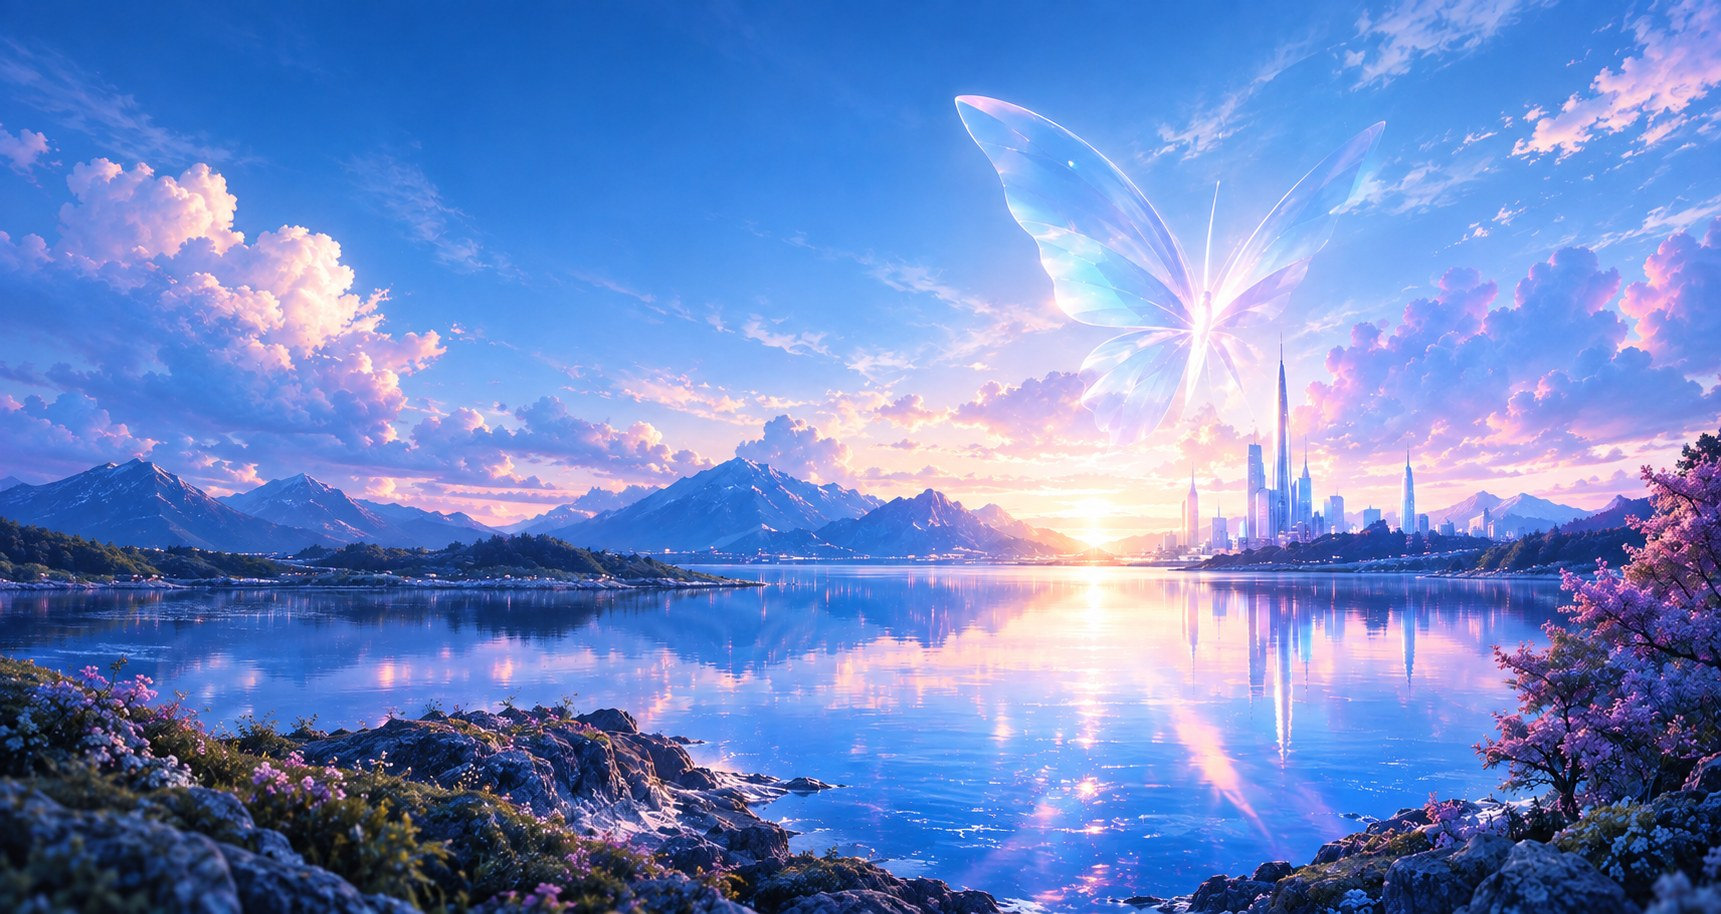
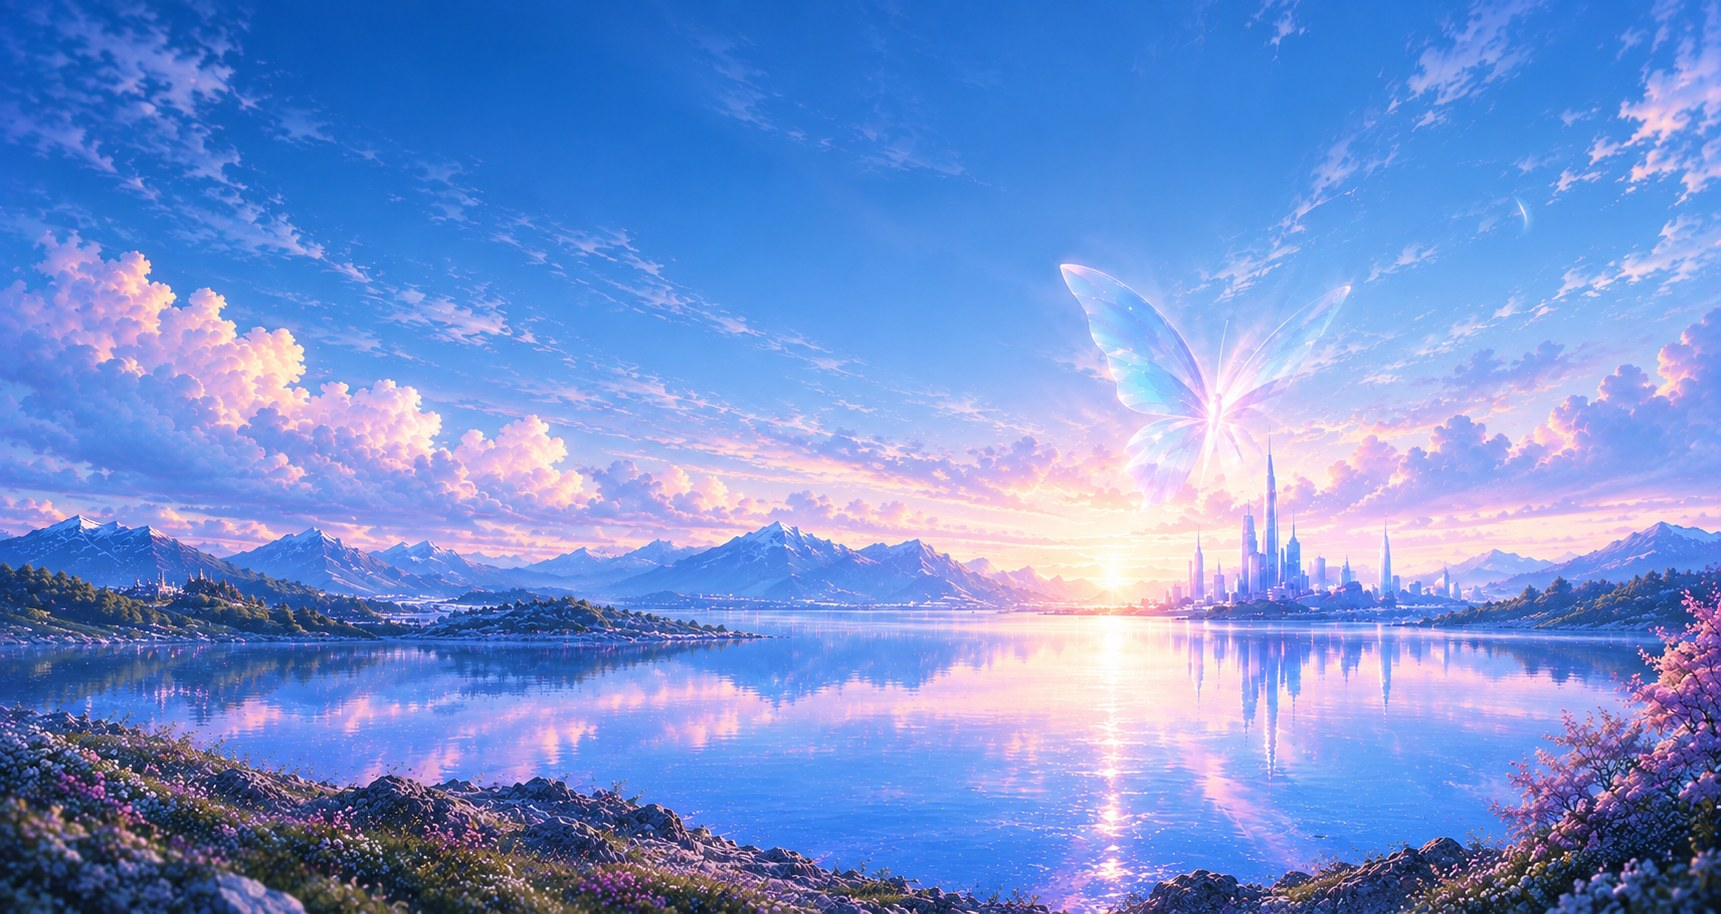
feat: 壁纸换新原片（用户 10-01 16:35 生成图）满屏 cover；移除内容缩小方案（此图不适用）
- ageha-dreamland.jpg?v=4（仅转码 350KB）+ 时钟缩略图从新原片净裁 ?v=4
- PhotoSurface 回归满屏 cover 单层（居中等比），修订 5 的内容缩小/
  边缘补足/mask 随新片移除，--ag-wallpaper-content-scale Token 退役
- 832 前端 + 80 后端 + E2E 16/16 全绿

diff --git a/src/desktop/wallpaper/WallpaperLayer.tsx b/src/desktop/wallpaper/WallpaperLayer.tsx
@@ -8,7 +8,7 @@ import { cssGradient, drawPlan } from './render'
 /**
  * 壁纸层（设计文档 §4.5 + §32 参考图对齐）：**照片基底常驻**（出厂默认
  * 壁纸 = 用户提供的无 UI 原版画作，全构图仅转码，public/wallpapers/，
- * 顶部锚定保证蝴蝶/天空在宽屏不被裁），生成式
+ * 满屏 cover 居中），生成式
  * field 计划在启用动态桌面时以 canvas 层交叉淡入覆盖其上——关闭动态桌面
  * （§32 新出厂默认）即回落照片。品牌字标由 DOM 品牌层承载（§31 R2-2 恢复）。
  * 场层过渡规则不变：新壁纸在上层 0→1 交叉淡入；
@@ -24,7 +24,7 @@ const MOUNT_DELAY_MS = 20
 
 /** 出厂照片壁纸（§32 修订）：用户提供的无 UI 原版画作（仅转码，全构图），
  *  路径公开稳定。URL 带版本号：内容更新替换同名文件时防浏览器陈旧缓存。 */
-export const DEFAULT_WALLPAPER_SRC = '/wallpapers/ageha-dreamland.jpg?v=3'
+export const DEFAULT_WALLPAPER_SRC = '/wallpapers/ageha-dreamland.jpg?v=4'
 
 function prefersReducedMotion(): boolean {
   try {
@@ -98,45 +98,20 @@ export function WallpaperLayer() {
 }
 
 /**
- * 照片基底（§32 修订 5）：**满屏壁纸 + 画面内容等比缩小**（用户裁决：
- * 解决「过大/过近」但壁纸必须始终满屏，不得退化为居中浮层/留白边框）。
- * 双层结构：
- * - 衬底层（wallpaper-surface-ambient）：同素材 cover 满屏 + 大半径模糊
- *   压暗轻微放大——负责屏幕边缘区域的自然衔接补足（模糊仅用于边缘）。
- * - 内容层（wallpaper-surface-photo）：同素材等比缩至
- *   --ag-wallpaper-content-scale（默认 85%，可 5% 步长 80-85 微调），
- *   居中、保持原始宽高比、全清晰（无模糊无圆角无边框），四周以双向
- *   线性渐变软 mask 渐进融入衬底——整体观感仍是一张满屏壁纸。
- * 指针视差已移除（壁纸静止，动效缩放上限同步消解）。
+ * 照片基底（§32 修订 6）：**满屏 cover 单层**——壁纸 = 用户提供的无 UI
+ * 原版画作（public/wallpapers/，仅转码），铺满全视口（等比 cover，
+ * 居中），静止无动效。修订 5 的「内容等比缩小 + 边缘模糊补足」方案随
+ * 新原片（用户裁决：此图不适用缩小方案）移除。
+ * 图片加载失败时静默透出画布渐变。
  */
 function PhotoSurface() {
-  const contentMask =
-    'linear-gradient(90deg, transparent 4%, #000 16%, #000 84%, transparent 96%), ' +
-    'linear-gradient(180deg, transparent 6%, #000 20%, #000 80%, transparent 94%)'
   return (
-    <>
-      <div
-        aria-hidden="true"
-        data-testid="wallpaper-surface-ambient"
-        className="absolute inset-0 scale-[1.06] bg-cover bg-center"
-        style={{
-          backgroundImage: `url(${DEFAULT_WALLPAPER_SRC})`,
-          filter: 'blur(64px) brightness(0.9) saturate(1.15)',
-        }}
-      />
-      <div
-        aria-hidden="true"
-        data-testid="wallpaper-surface-photo"
-        className="absolute inset-0 bg-no-repeat"
-        style={{
-          backgroundImage: `url(${DEFAULT_WALLPAPER_SRC})`,
-          backgroundSize: 'var(--ag-wallpaper-content-scale) auto',
-          backgroundPosition: 'center',
-          maskImage: contentMask,
-          maskComposite: 'intersect',
-        }}
-      />
-    </>
+    <div
+      aria-hidden="true"
+      data-testid="wallpaper-surface-photo"
+      className="absolute inset-0 bg-cover bg-center"
+      style={{ backgroundImage: `url(${DEFAULT_WALLPAPER_SRC})` }}
+    />
   )
 }
 

diff --git a/src/desktop/wallpaper/WallpaperLayer.test.tsx b/src/desktop/wallpaper/WallpaperLayer.test.tsx
@@ -139,21 +139,14 @@ describe('WallpaperLayer gradient-field surfaces (2026-09-27 生成域)', () => 
     expect(container.querySelector('[data-testid="wallpaper-surface-photo-fallback"]')).toBeNull()
   })
 
-  it('keeps the photo base mounted full-bleed with content at 85% scale (§32 修订 5)', () => {
+  it('keeps the photo base mounted full-bleed with the shipped asset (§32 修订 6)', () => {
     const { container } = render(<WallpaperLayer />)
     const photo = container.querySelector<HTMLElement>('[data-testid="wallpaper-surface-photo"]')
     expect(photo).not.toBeNull()
-    // 内容层：等比缩小（Token 可调 80-85%）、居中、满屏驻留 + 边缘软融合 mask。
-    expect(photo?.style.backgroundImage).toContain('/wallpapers/ageha-dreamland.jpg')
-    expect(photo?.style.backgroundSize).toBe('var(--ag-wallpaper-content-scale) auto')
-    expect(photo?.style.backgroundPosition).toBe('center center')
-    expect(photo?.style.maskImage).toContain('linear-gradient')
-    // 衬底层：同素材模糊压暗，负责屏幕边缘补足。
-    const ambient = container.querySelector<HTMLElement>(
-      '[data-testid="wallpaper-surface-ambient"]',
-    )
-    expect(ambient?.style.backgroundImage).toContain('/wallpapers/ageha-dreamland.jpg')
-    expect(ambient?.style.filter).toContain('blur(64px)')
+    // 满屏 cover 单层（新原片不适用缩小方案），居中等比铺满。
+    expect(photo?.style.backgroundImage).toContain('/wallpapers/ageha-dreamland.jpg?v=4')
+    expect(photo?.className).toContain('bg-cover')
+    expect(photo?.className).toContain('inset-0')
   })
 
   it('keeps the surface mounted across plan transitions of the same style', () => {

diff --git a/src/index.css b/src/index.css
@@ -115,9 +115,6 @@
     rgb(45 62 110 / 16%) 100%
   );
 
-  /* ---- 壁纸内容缩放（§32 修订 5，用户裁决：满屏前提下班面内容等比
-     缩小至 80-85% 解决「过大/过近」，边缘模糊补足）---- */
-  --ag-wallpaper-content-scale: 85%;
 
   /* ---- Large-surface gradients（渐变只属于大面；控件实色）---- */
   --ag-canvas: linear-gradient(168deg, #ffffff 0%, #ecf3fd 55%, #ddebfb 100%);

diff --git a/src/desktop/widgets/WidgetRail.tsx b/src/desktop/widgets/WidgetRail.tsx
@@ -90,7 +90,7 @@ function ClockCard() {
           </div>
         </div>
         <img
-          src="/wallpapers/ageha-clock-thumb.jpg?v=3"
+          src="/wallpapers/ageha-clock-thumb.jpg?v=4"
           alt=""
           data-testid="widgets-clock-thumb"
           className="h-[88px] w-[88px] shrink-0 rounded-xl object-cover shadow-soft"
